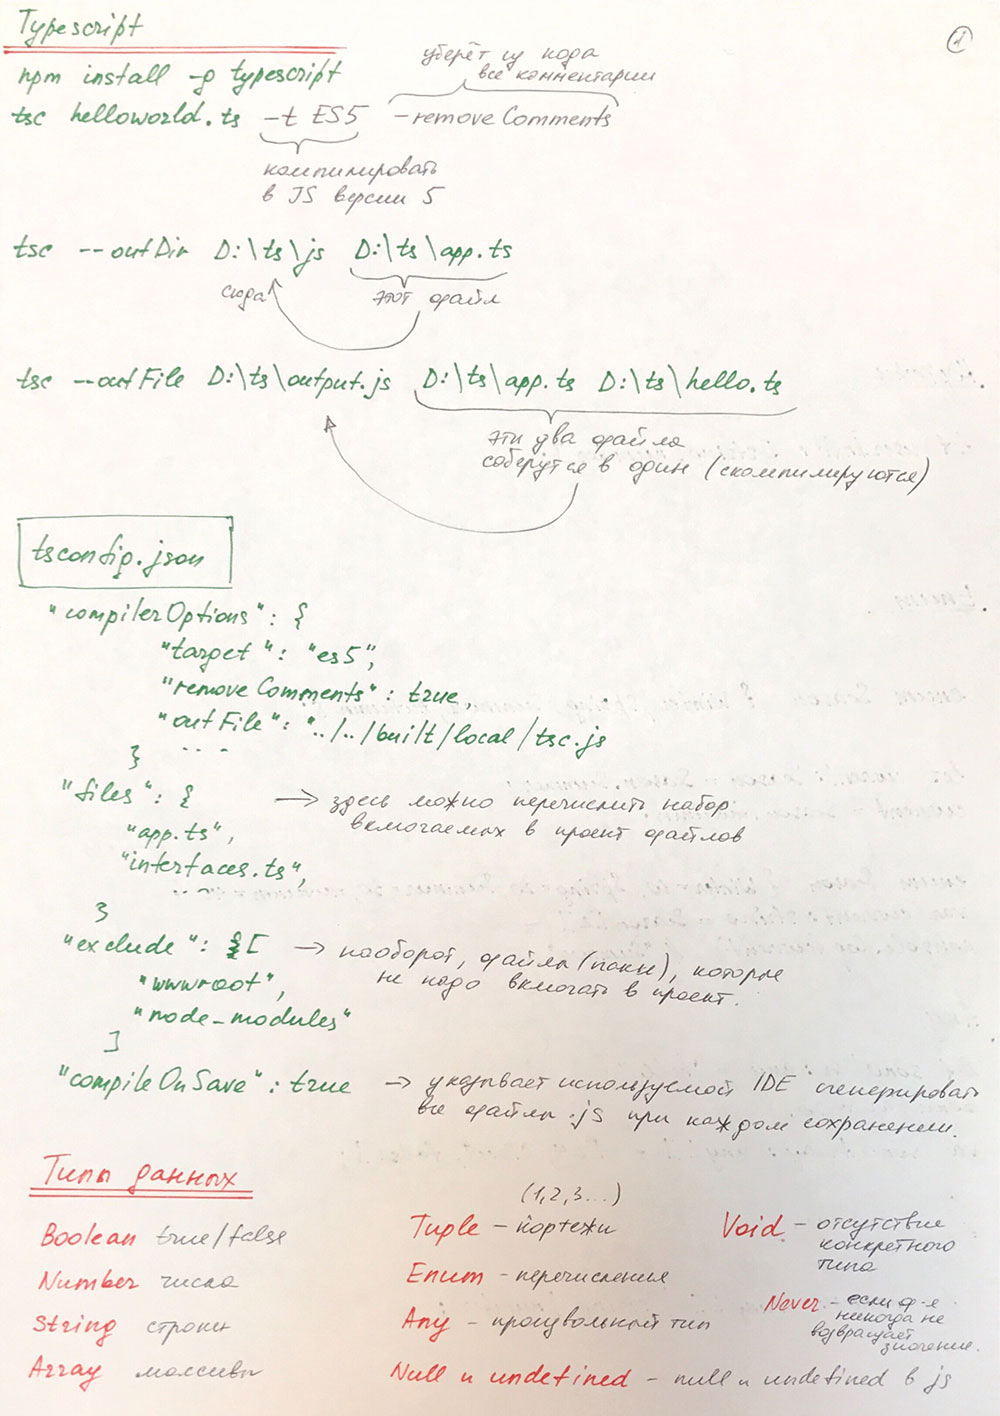
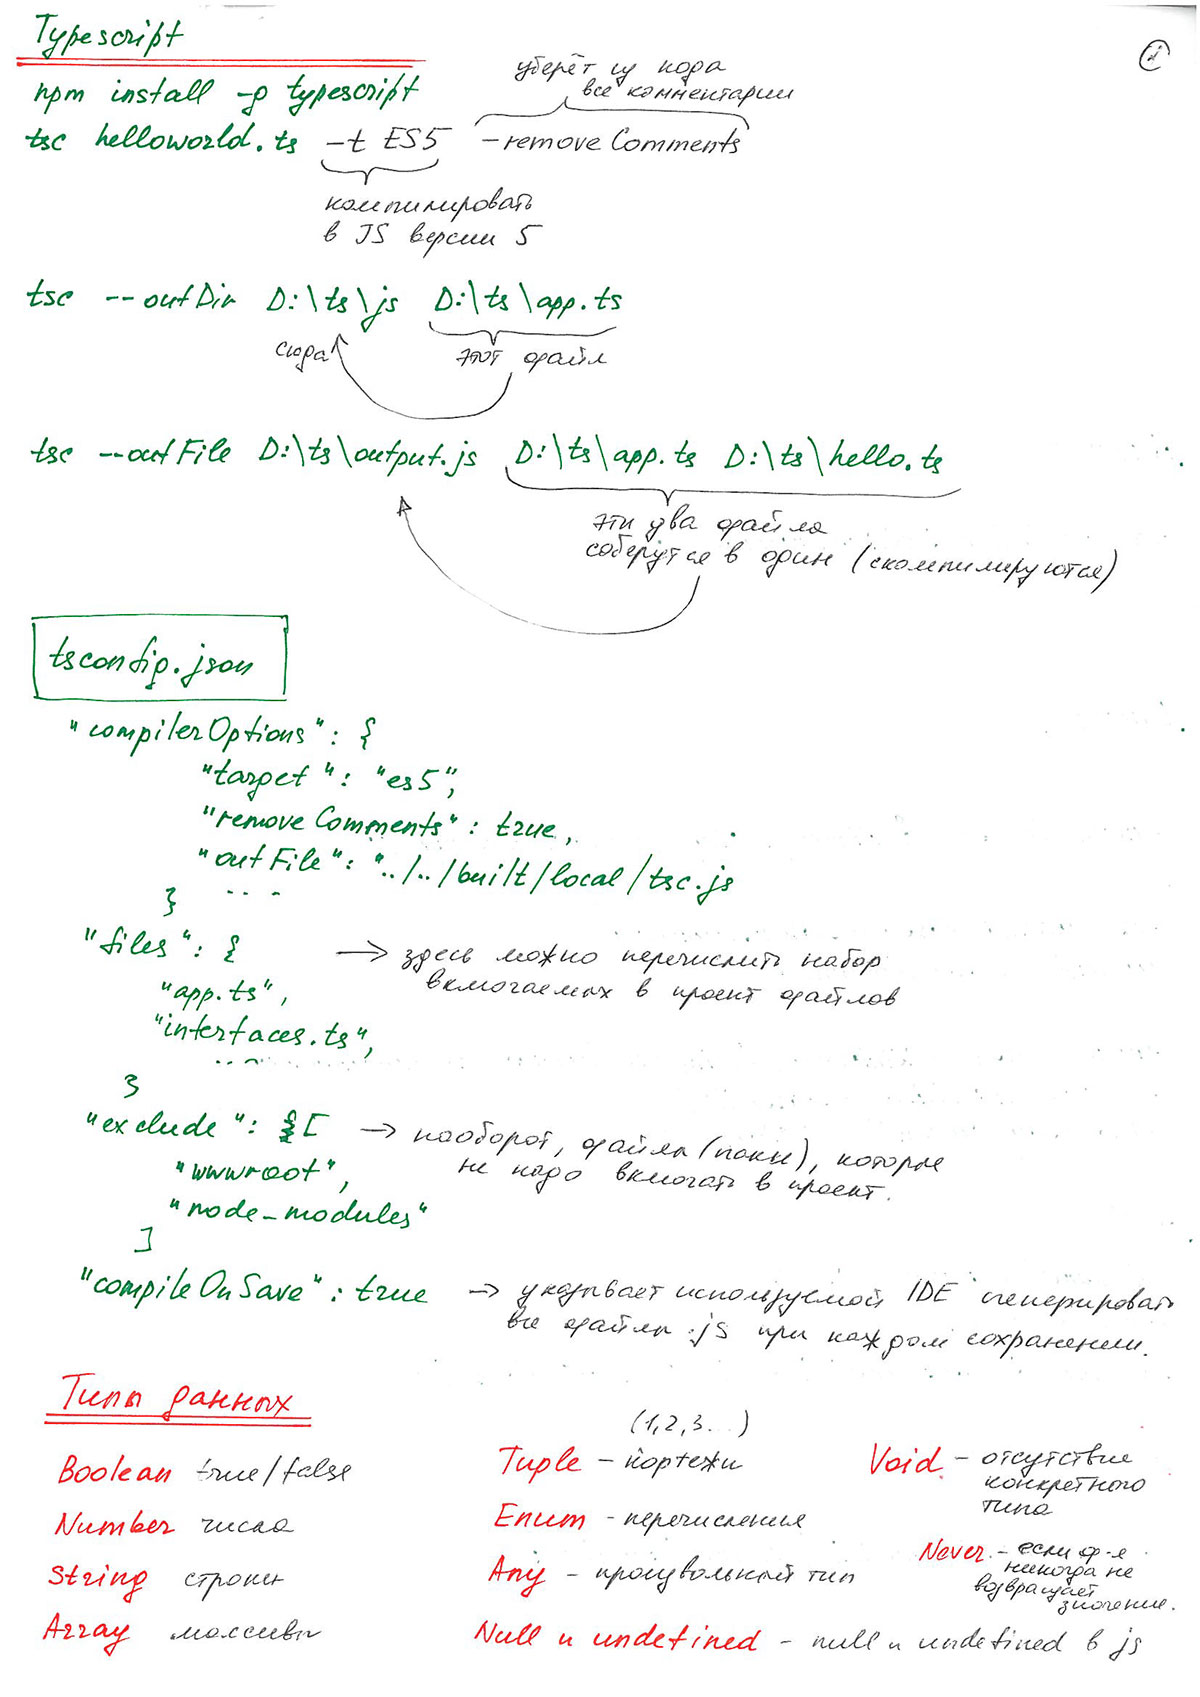
scans added

diff --git a/src/containers/CommonQuestions.js b/src/containers/CommonQuestions.js
@@ -578,11 +578,6 @@ if (window.matchMedia("(min-width: 60em)").matches) {...}
         </Block>
 
 
-
-
-
-
-
         <Block>
           <SubHead>UNCATEGORIZED</SubHead>
 <StyledSyntaxHighlighter language='javascript' style={tomorrow}>
@@ -596,7 +591,6 @@ a === b // строгое равенство
 deffered // объекты, хранят состояние задачи (выполнено, еще не выполнено, выполнено с ошибкой)
 
 [1,2,5,10].sort((a,b) => a - b); // - сортировка массива
-`}
 
 alert(type of null); // object
 alert(null instanceOf Object) // false
@@ -607,6 +601,48 @@ alert(typeof NaN) // Number
 alert(NaN === NaN) // false
 
 ~~3.14 // 3
+
+// ===========================
+// [1,2,3,4,5].duplicator(); // [1,2,3,4,5,1,2,3,4,5]
+
+var arr = [1,2,3,4,5];
+Array.prototype.duplicator = Array.prototype.duplicator ||
+function() {
+  var dup = this.reduce(function(res, val, i) {
+    res.push(val);
+    return res;
+  }, this)
+  return dup;
+}
+
+// ===========================
+function createCounter() {
+  var numberOfCalls = 0;
+  return function() {
+    return ++numberOfCalls;
+  }
+}
+
+var fn = createCounter();
+
+fn(); // 1
+fn(); // 2
+fn(); // 3
+
+// ===========================
+for (var i=0; i<10; i++) { // i++ выполняется перед проверкой условия!!!
+  (function(i) {
+    setTimeout(function() {
+      console.log(i);
+    }, 1000);
+  })(i); // кэшируем i
+}
+
+// если не кэшировать то через секунду
+// 9 раз выведется переменная i которая к тому моменту
+// будет равна 10!
+`}
+
 </StyledSyntaxHighlighter>
         </Block>
       </div>

diff --git a/src/containers/AngularPage.js b/src/containers/AngularPage.js
@@ -1,5 +1,17 @@
 import React, { Component } from 'react';
-import { Head } from '../components/shared';
+import { Image, Head } from '../components/shared';
+import ang1 from '../images/ang1.jpg';
+import ang2 from '../images/ang2.jpg';
+import ang3 from '../images/ang3.jpg';
+import ang4 from '../images/ang4.jpg';
+import ang5 from '../images/ang5.jpg';
+import ang6 from '../images/ang6.jpg';
+import ang7 from '../images/ang7.jpg';
+import ang8 from '../images/ang8.jpg';
+import ang9 from '../images/ang9.jpg';
+import ang10 from '../images/ang10.jpg';
+import ang11 from '../images/ang11.jpg';
+import ang12 from '../images/ang12.jpg';
 
 class AngularPage extends Component {
   componentDidMount() {
@@ -10,9 +22,18 @@ class AngularPage extends Component {
     return (
       <div>
         <Head>ANGULAR</Head>
-        <p>
-          Сканы конспекта
-        </p>
+        <Image src={ang1} alt=""/>
+        <Image src={ang2} alt=""/>
+        <Image src={ang3} alt=""/>
+        <Image src={ang4} alt=""/>
+        <Image src={ang5} alt=""/>
+        <Image src={ang6} alt=""/>
+        <Image src={ang7} alt=""/>
+        <Image src={ang8} alt=""/>
+        <Image src={ang9} alt=""/>
+        <Image src={ang10} alt=""/>
+        <Image src={ang11} alt=""/>
+        <Image src={ang12} alt=""/>
       </div>
     );
   }

diff --git a/src/containers/TypeScriptPage.js b/src/containers/TypeScriptPage.js
@@ -1,16 +1,15 @@
 import React, { Component } from 'react';
-import { Head } from '../components/shared';
+import { Image, Head } from '../components/shared';
 import ts1 from '../images/ts1.jpg';
-import styled from "styled-components";
-
-const Image = styled.img`
-  display: block;
-  width: 100%;
-  max-width: 800px;
-  border: 1px solid #f5f5f5;
-  border-radius: 2px;
-  margin: 0 auto 10px auto;
-`;
+import ts2 from '../images/ts2.jpg';
+import ts3 from '../images/ts3.jpg';
+import ts4 from '../images/ts4.jpg';
+import ts5 from '../images/ts5.jpg';
+import ts6 from '../images/ts6.jpg';
+import ts7 from '../images/ts7.jpg';
+import ts8 from '../images/ts8.jpg';
+import ts9 from '../images/ts9.jpg';
+import ts10 from '../images/ts10.jpg';
 
 class TypeScriptPage extends Component {
   componentDidMount() {
@@ -22,7 +21,15 @@ class TypeScriptPage extends Component {
       <div>
         <Head>Type Script</Head>
         <Image src={ts1} alt=""/>
-        <Image src={ts1} alt=""/>
+        <Image src={ts2} alt=""/>
+        <Image src={ts3} alt=""/>
+        <Image src={ts4} alt=""/>
+        <Image src={ts5} alt=""/>
+        <Image src={ts6} alt=""/>
+        <Image src={ts7} alt=""/>
+        <Image src={ts8} alt=""/>
+        <Image src={ts9} alt=""/>
+        <Image src={ts10} alt=""/>
       </div>
     );
   }

diff --git a/src/components/shared.js b/src/components/shared.js
@@ -40,3 +40,12 @@ export const Mark = styled.span`
   font-size: 16px;
   font-weight: 300;
 `;
+
+export const Image = styled.img`
+  display: block;
+  width: 100%;
+  max-width: 800px;
+  border: 1px solid #f5f5f5;
+  border-radius: 2px;
+  margin: 0 auto 10px auto;
+`;
